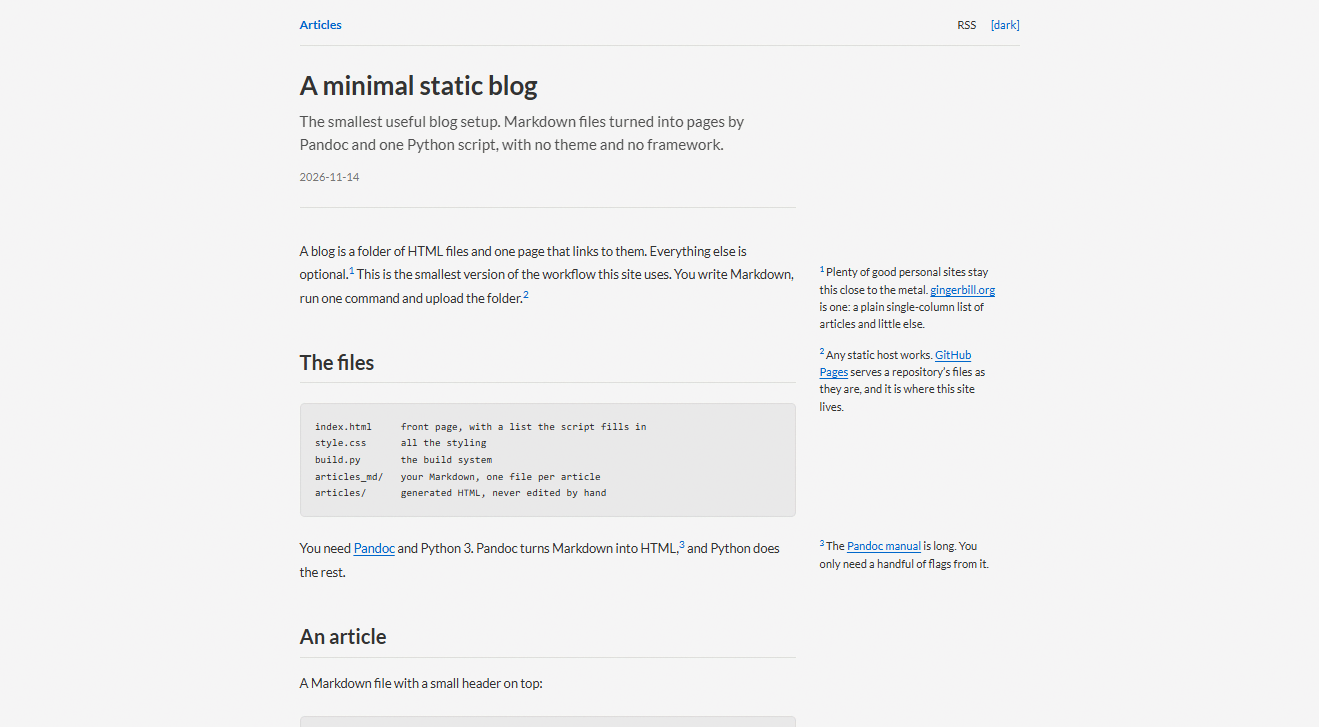
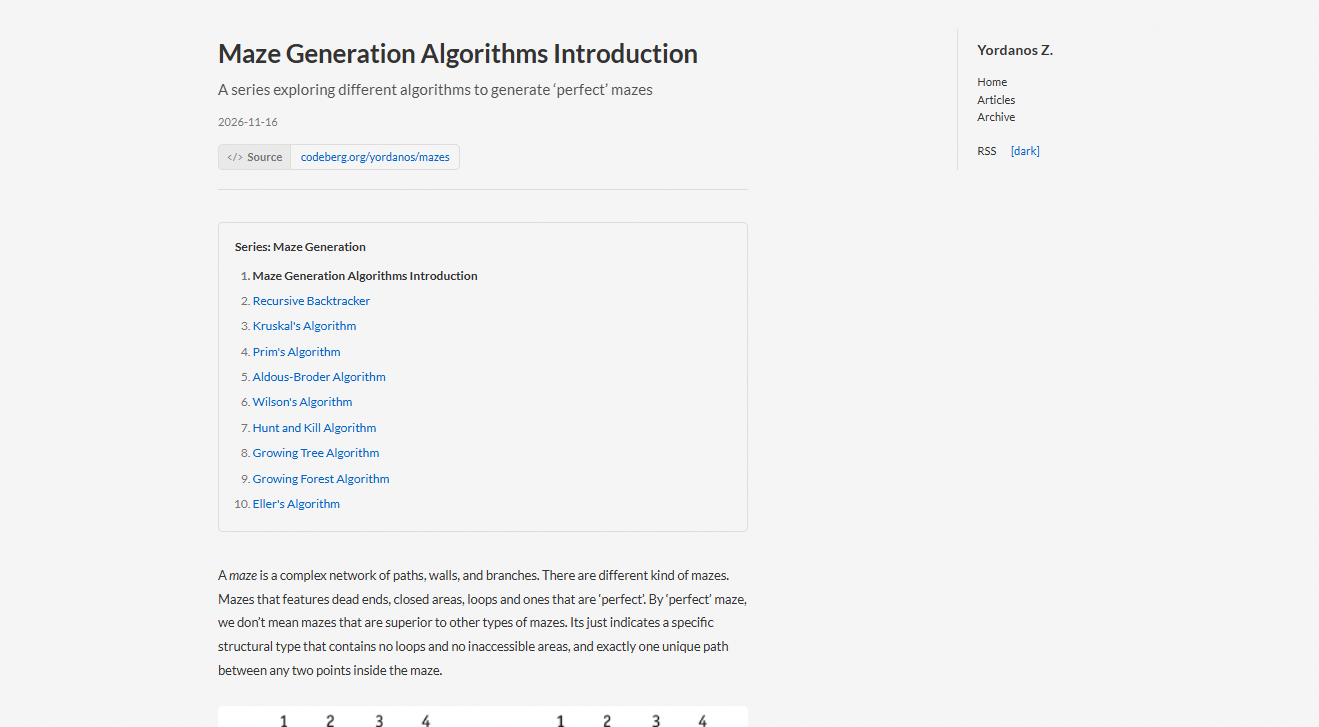
Updates README and edits

diff --git a/styles/article.css b/styles/article.css
@@ -112,7 +112,7 @@ main > header .source a:hover {
 
 /* SERIES (front matter: series: Name) */
 main .series {
-	margin: 0 0 40px;
+	margin: 40px 0;
 	padding: 16px 20px;
 	border: 1px solid var(--border);
 	border-radius: 6px;
